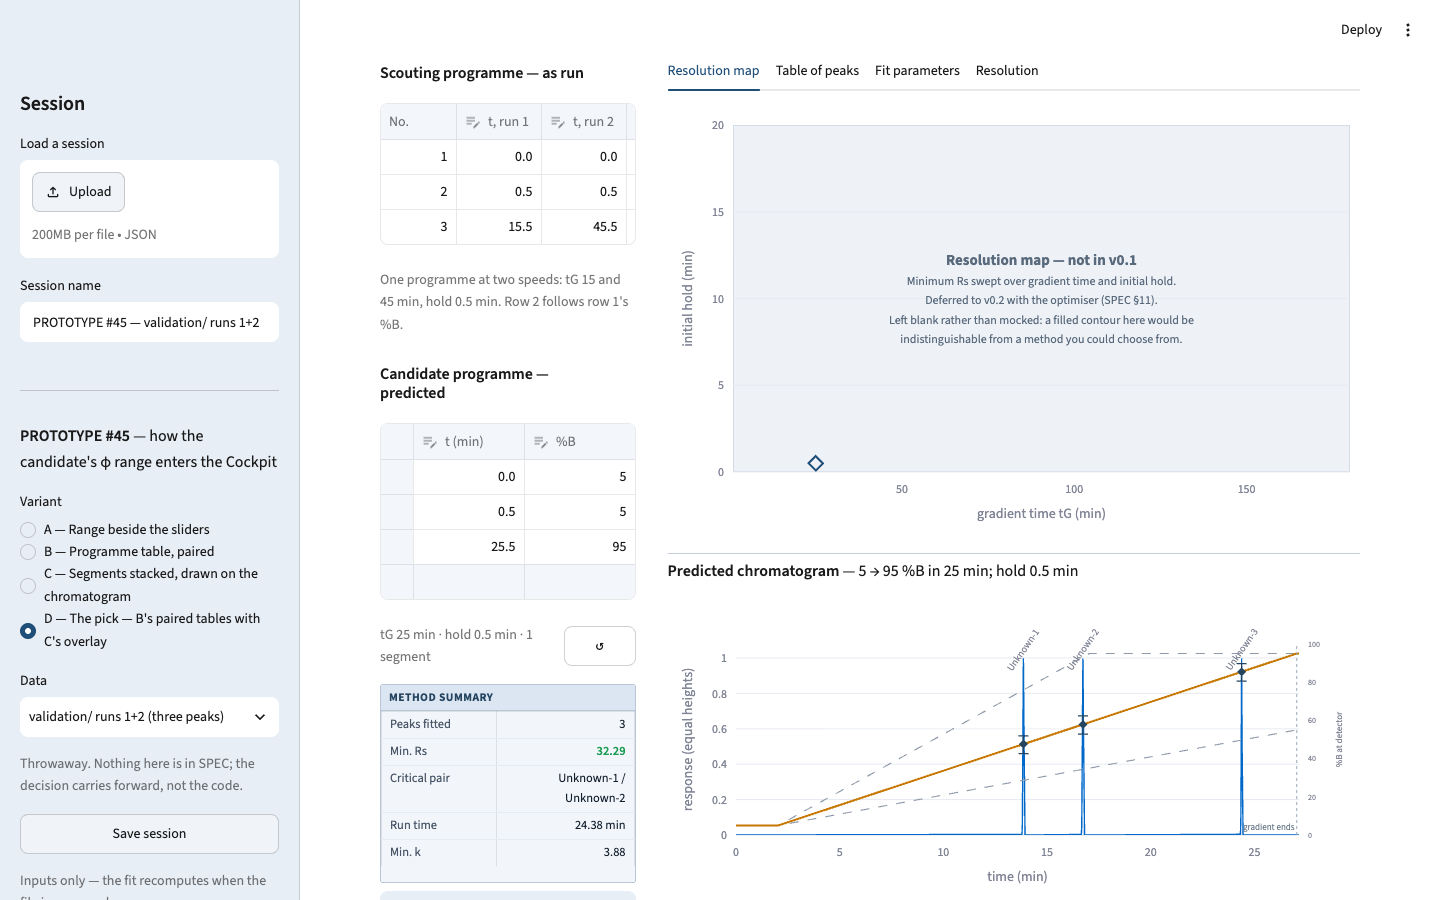
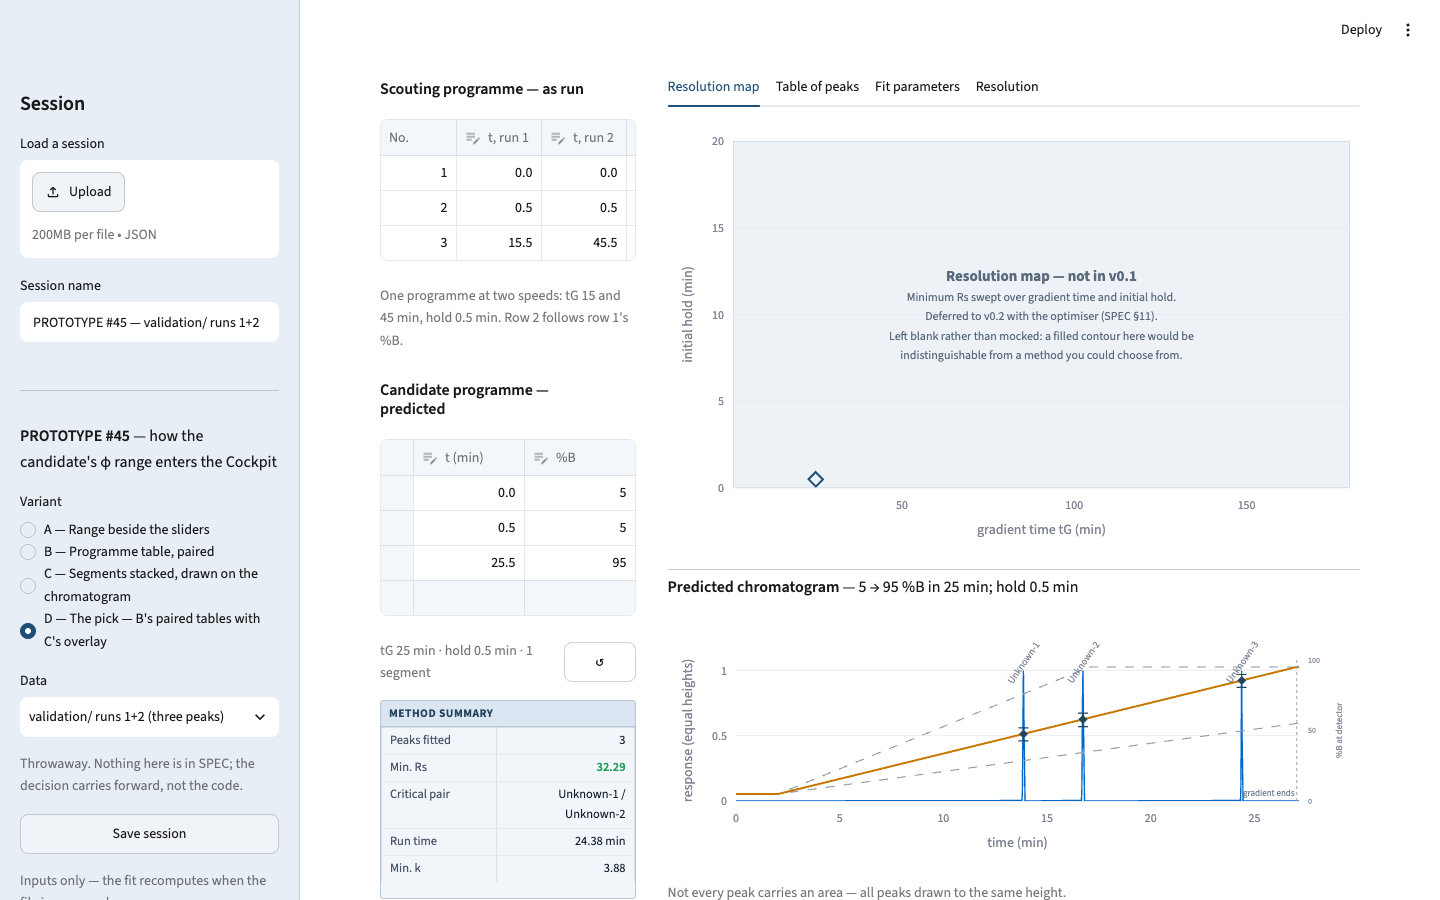
Prototype #45: axis range as an always-open strip beneath the chromatogram
Driver's request while reviewing variant D: the axis controls leave the collapsed
expander and become their own bordered row under the trace, with x start, x end,
y start, y end and Reset always on show. The plot drops to 250 px so the strip fits
the pinned block's 46vh budget. Marked as a candidate for the build ticket.

Claude-Session: https://claude.ai/code/session_01MYgmJEqufCXWGuBq3XcDh4

diff --git a/streamlit_app.py b/streamlit_app.py
@@ -119,6 +119,22 @@ _BY_TIME = "Time (min)"
 
 _UNTITLED = "Untitled session"
 
+# PROTOTYPE #45: the always-open axis strip beneath the chromatogram (driver's request).
+_AXIS_STRIP_STYLE = """
+<style>
+  .st-key-hs-axis {
+    border-top: 1px solid #c3ceda; margin-top: 4px; padding: 4px 0 2px;
+  }
+  .st-key-hs-axis .stNumberInput label { font-size: 0.72rem; }
+  .st-key-hs-axis .stNumberInput input { font-size: 0.8rem; padding: 0.25rem 0.5rem; }
+  .st-key-hs-axis .stButton button { padding: 0.25rem 0.5rem; font-size: 0.8rem; min-height: 0; }
+  .hs-axis-title {
+    font-size: 0.72rem; font-weight: 700; letter-spacing: .04em; text-transform: uppercase; color: #24445f;
+  }
+  .hs-axis-note { font-size: 0.72rem; color: #6b7a8c; font-variant-numeric: tabular-nums; }
+</style>
+"""
+
 # SPEC §6 diagnostic 6's short form. One wording, wherever an output surface carries it.
 _STAMP_SHORT = "⚠ Estimated t0 — every value here is lower-confidence (SPEC §6)."
 
@@ -219,6 +235,7 @@ def _notices(diagnostics: Sequence[Diagnostic]) -> None:
 def main() -> None:
     st.set_page_config(page_title="hplcsim — Cockpit", layout="wide")
     st.markdown(panels.STYLE, unsafe_allow_html=True)
+    st.markdown(_AXIS_STRIP_STYLE, unsafe_allow_html=True)  # PROTOTYPE #45
 
     # The session controls come first in the sidebar and, more to the point, before
     # every other widget is drawn: restoring a file writes the widgets' state, and
@@ -1010,7 +1027,9 @@ def _chromatogram(cockpit: Cockpit, inputs: CockpitInputs, diagnostics: Diagnost
         extend_to=asked.x_end,
     )
     view = chromatogram.axis_view(trace, asked)
-    fig = proto.decorate_chromatogram(chromatogram.figure(trace, view=view), cockpit)  # PROTOTYPE #45
+    # PROTOTYPE #45: 250 px rather than 300 so the always-open axis strip fits inside the
+    # pinned block's 46vh budget on a 900 px viewport.
+    fig = proto.decorate_chromatogram(chromatogram.figure(trace, height=250, view=view), cockpit)
     st.plotly_chart(fig, width="stretch")
     notes = [
         "Peak areas scaled by the measured area shares."
@@ -1062,9 +1081,17 @@ def _axis_controls(view: chromatogram.AxisView) -> None:
         # the run's value into session state pushes it to the browser instead.
         for _label, key, value, _step, _fmt in boxes:
             st.session_state[key] = value
-    with st.expander("Axis range", expanded=False):
-        cols = st.columns([1.0, 1.0, 1.0, 1.0, 0.7], vertical_alignment="bottom")
-        for col, (label, key, value, step, fmt) in zip(cols, boxes, strict=False):
+    # PROTOTYPE #45 (driver, 2026-09-03): the axis range is its own strip beneath the
+    # trace, always open — no expander — so where each axis starts and ends is on show.
+    with st.container(key="hs-axis"):
+        cols = st.columns([0.9, 1.0, 1.0, 1.0, 1.0, 0.7], vertical_alignment="bottom")
+        with cols[0]:
+            st.markdown(
+                "<div class='hs-axis-title'>Axis range</div>"
+                f"<div class='hs-axis-note'>run ends {view.run_x[1]:.2f} min</div>",
+                unsafe_allow_html=True,
+            )
+        for col, (label, key, value, step, fmt) in zip(cols[1:], boxes, strict=False):
             with col:
                 st.number_input(
                     label,
@@ -1075,13 +1102,8 @@ def _axis_controls(view: chromatogram.AxisView) -> None:
                     key=key,
                     on_change=_mark_axis_touched,
                 )
-        with cols[4]:
+        with cols[5]:
             st.button("Reset", on_click=_reset_axis_range, width="stretch")
-        st.caption(
-            f"The run ends at {view.run_x[1]:.2f} min and the tallest peak reaches "
-            f"{view.run_y[1] / chromatogram.Y_HEADROOM:.4g}. An x end past the run draws "
-            "the baseline out to it."
-        )
     for note in view.notes:
         st.warning(note, icon="⚠")
 

diff --git a/prototype/README.md b/prototype/README.md
@@ -16,9 +16,11 @@ Then flip with the URL, or the switcher at the foot of the sidebar:
 | `?variant=A` | **Range beside the sliders** — sidebar keeps the scouting %B ("as run"); the rail's Candidate block gains a %B range slider under tG and hold, plus a "↺ scouting" reset; extra segments in an expander table; the programme drawn as a small φ-vs-time sparkline in the rail |
 | `?variant=B` | **Programme table, paired** — the ACD/DryLab shape (#56): the scouting programme leaves the sidebar and becomes a No./Time/%B table at the top of the rail (two time columns — one programme at two speeds); the candidate is a second table of the same shape beneath it, dynamic rows, **no sliders**; the programme is the table and nothing else |
 | `?variant=C` | **Segments stacked, drawn on the chromatogram** — start %B, hold, then one block per segment ("to %B over min") with ＋/−; the programme is overlaid on the pinned chromatogram on a right-hand %B axis — candidate solid, scouting dashed — with each peak's elution composition as a diamond and its calibrated window as the whisker |
+| `?variant=D` | **The pick** (driver, 2026-09-03) — B's paired tables with C's overlay: no slider pairs, scouting programmes dashed on the chromatogram beside the candidate's solid line, per-peak window whiskers always on, segments as rows, no tG slider |
 | `?data=lab` | `validation/` runs 1+2 — three peaks, 5→95 %B, tG 15/45 (default) |
 | `?data=v2` | `validation/Validation_2` runs 1+2 — four peaks inside 0.5 min, near-critical pair, tG 15/40 |
 | `?data=own` | whatever is typed in; no demo load |
+| `&b0=15&b1=55&tg=25` | seed the candidate table on load (B and D) — #44's trap case: tG inside the bracket, s\* outside |
 
 All three variants carry the four surfaces #44 decided, in the places it decided:
 
@@ -38,6 +40,11 @@ narrow the range to 15→55 at tG 25 (inside the tG bracket, outside the s\* bra
 #44's worked example); add a second segment to 95 %B over 5 min and watch the late peak
 move off the ramp end; on Validation_2, push the start until a peak earns the low-k0
 badge.
+
+Two Cockpit changes the driver asked for while reviewing D, both marked `PROTOTYPE #45` and
+candidates for the build ticket rather than decisions of this one: the **axis range is its own
+always-open strip** beneath the chromatogram (no expander; x start, x end, y start, y end and
+Reset on show), and the plot is drawn at 250 px so the strip fits the pinned block's budget.
 
 ## What is real and what is not
 
